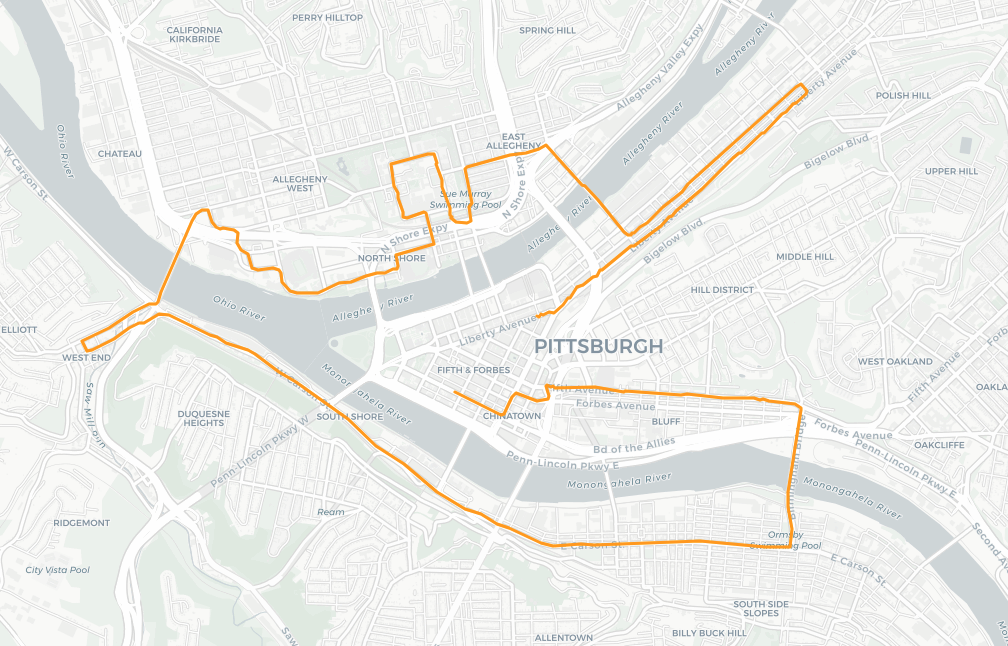
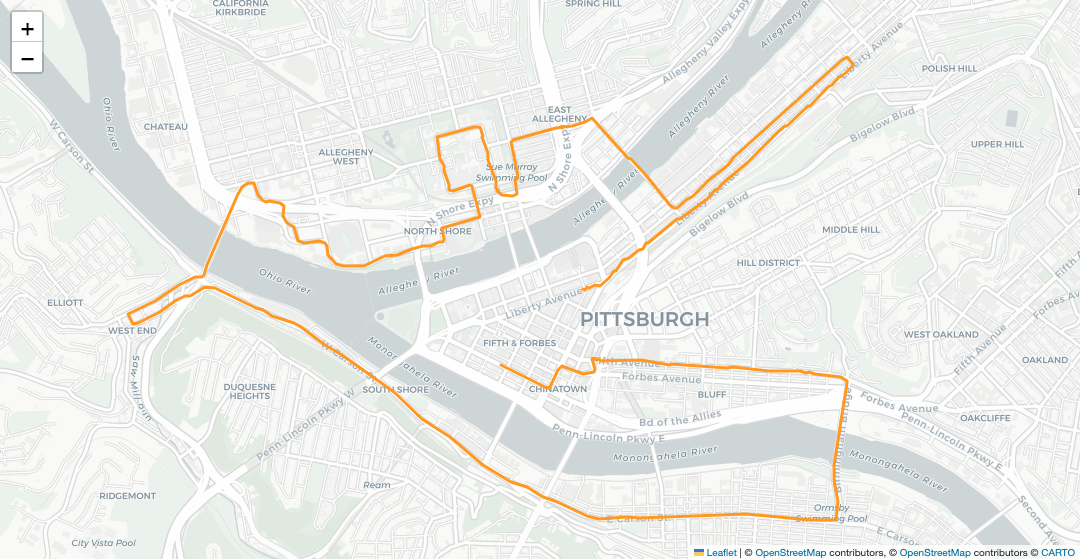
optimize screenshot aesthetics

diff --git a/ScreenShotter.py b/ScreenShotter.py
@@ -1,0 +1,42 @@
+from selenium import webdriver
+import time
+import os
+
+
+class ScreenShooter:
+    def __init__(self):
+        pass
+
+    def take_sreenshot(self, html_file_name, export_image_name):
+        # Path to your HTML file
+
+        html_path = f"file://{os.path.join(os.getcwd(), html_file_name)}"
+        # export_path = os.path.join(os.getcwd(), export_image_name)
+        export_path = export_image_name
+        print(html_path, export_path)
+        # Path to your ChromeDriver executable (download and specify the correct path)
+
+        # Configure Chrome options
+        chrome_options = webdriver.ChromeOptions()
+        chrome_options.add_argument(
+            "--headless"
+        )  # Run Chrome in headless mode (without opening a window)
+
+        # Initialize Chrome driver
+        # driver = webdriver.Chrome(executable_path=driver_path, options=chrome_options)
+        driver = webdriver.Chrome()
+        # the current window size
+        window_size = driver.get_window_size()
+
+        resize_ratio = 0.9
+        new_height = int(window_size["height"] * resize_ratio)
+        new_width = int(window_size["width"] * resize_ratio)
+        driver.set_window_size(new_width, new_height)
+        # Open the HTML file in Chrome
+        driver.get(html_path)
+        time.sleep(0.25)
+        # Take a screenshot of the loaded HTML file
+        driver.save_screenshot(export_path)
+
+        # Close the browser
+        driver.quit()

diff --git a/test_screenshot.py b/test_screenshot.py
@@ -1,0 +1,10 @@
+from BestEffort import BestEffortScanner
+from ScreenShotter import ScreenShooter
+
+if __name__ == "__main__":
+    screenShooter = ScreenShooter()
+
+    screenShooter.take_sreenshot(
+        "map_with_polyline.html",
+        "img/map_with_polyline.png",
+    )
